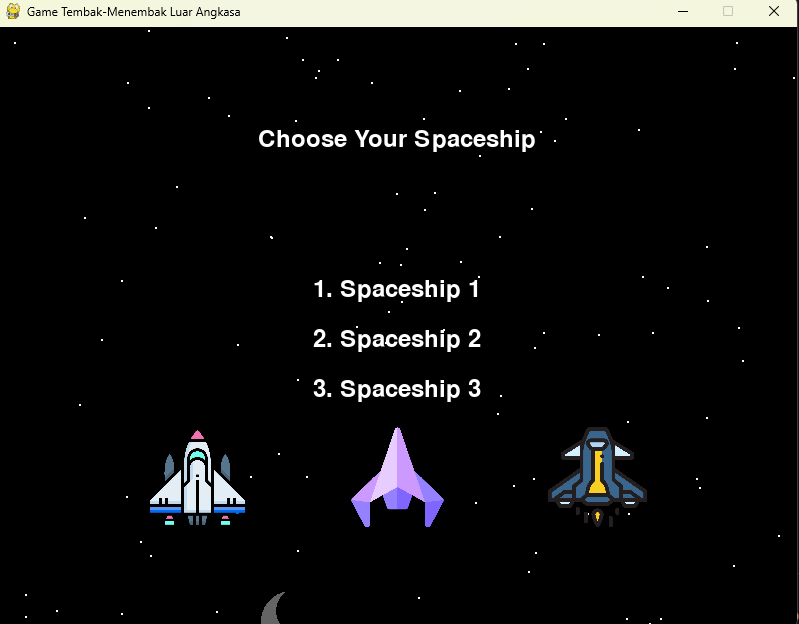
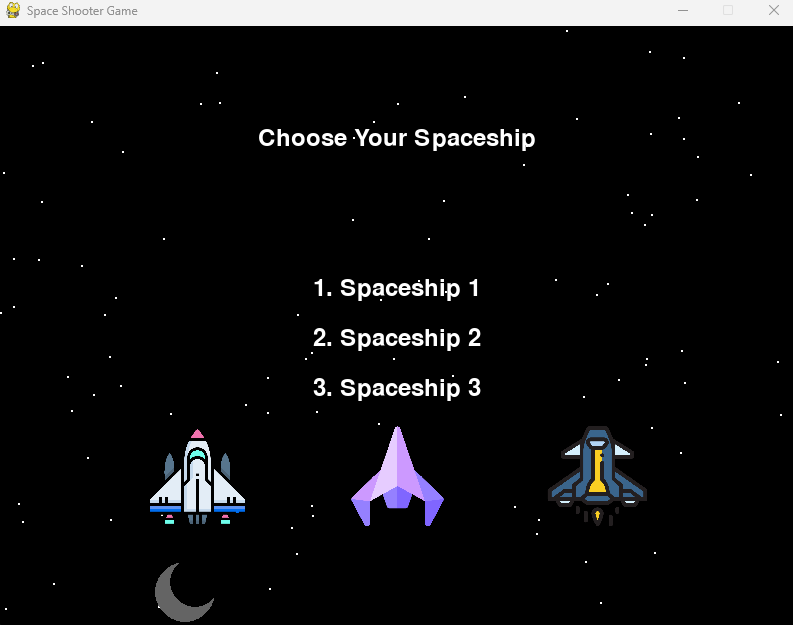
update

diff --git a/space-shooter.py b/space-shooter.py
@@ -3,10 +3,8 @@ import random
 import sys
 import math
 
-# Inisialisasi pygame
 pygame.init()
 
-# Warna
 black = (0, 0, 0)
 white = (255, 255, 255)
 blue = (0, 0, 255)
@@ -15,33 +13,28 @@ green = (0, 255, 0)
 yellow = (255, 255, 0)
 gray = (100, 100, 100)
 
-# Ukuran jendela
 width, height = 800, 600
 screen = pygame.display.set_mode((width, height))
-pygame.display.set_caption('Game Tembak-Menembak Luar Angkasa')
+pygame.display.set_caption('Space Shooter Game')
 
-# Variabel game
 clock = pygame.time.Clock()
 fps = 60
 player_speed = 5
 bullet_speed = 7
 enemy_speed = 3
-bullet_delay = 300  # waktu delay dalam milidetik antara tembakan
-max_combo = 32  # Maksimum combo
+bullet_delay = 300
+max_combo = 32
 
-# Font untuk skor
 font = pygame.font.Font(None, 36)
 
-# Dekorasi luar angkasa
 stars = [(random.randint(0, width), random.randint(0, height)) for _ in range(100)]
 moon_x, moon_y = random.randint(50, width-50), random.randint(-50, 0)
 
-# Kelas
 class Player(pygame.sprite.Sprite):
     def __init__(self, spaceship_choice):
         super().__init__()
-        self.image = pygame.image.load(spaceship_choice).convert_alpha()  # Load gambar pesawat dengan alpha channel
-        self.image = pygame.transform.scale(self.image, (50, 50))  # Sesuaikan ukuran
+        self.image = pygame.image.load(spaceship_choice).convert_alpha()
+        self.image = pygame.transform.scale(self.image, (50, 50))
         self.rect = self.image.get_rect()
         self.rect.center = (width // 2, height - 50)
         self.speed = player_speed
@@ -63,8 +56,8 @@ class Player(pygame.sprite.Sprite):
 class Bullet(pygame.sprite.Sprite):
     def __init__(self, x, y):
         super().__init__()
-        self.image = pygame.image.load('bullet.png').convert_alpha()  # Load gambar peluru dengan alpha channel
-        self.image = pygame.transform.scale(self.image, (5, 15))  # Sesuaikan ukuran
+        self.image = pygame.image.load('bullet.png').convert_alpha()
+        self.image = pygame.transform.scale(self.image, (5, 15))
         self.rect = self.image.get_rect()
         self.rect.centerx = x
         self.rect.bottom = y
@@ -77,8 +70,8 @@ class Bullet(pygame.sprite.Sprite):
 class Enemy(pygame.sprite.Sprite):
     def __init__(self):
         super().__init__()
-        self.image = pygame.image.load('enemy.png').convert_alpha()  # Load gambar musuh dengan alpha channel
-        self.image = pygame.transform.scale(self.image, (40, 40))  # Sesuaikan ukuran
+        self.image = pygame.image.load('enemy.png').convert_alpha()
+        self.image = pygame.transform.scale(self.image, (40, 40))
         self.rect = self.image.get_rect()
         self.rect.x = random.randint(0, width - self.rect.width)
         self.rect.y = random.randint(-150, -self.rect.height)
@@ -108,8 +101,8 @@ class Alien(pygame.sprite.Sprite):
 class Combo(pygame.sprite.Sprite):
     def __init__(self):
         super().__init__()
-        self.image = pygame.image.load('coin.png').convert_alpha()  # Load gambar koin dengan alpha channel
-        self.image = pygame.transform.scale(self.image, (30, 30))  # Sesuaikan ukuran
+        self.image = pygame.image.load('coin.png').convert_alpha()
+        self.image = pygame.transform.scale(self.image, (30, 30))
         self.rect = self.image.get_rect()
         self.rect.x = random.randint(0, width - self.rect.width)
         self.rect.y = random.randint(-150, -self.rect.height)
@@ -121,12 +114,10 @@ class Combo(pygame.sprite.Sprite):
             self.kill()
 
 def draw_space_decorations(player):
-    # Draw stars
     for i, star in enumerate(stars):
         stars[i] = (star[0], (star[1] + 1) % height)
         pygame.draw.circle(screen, white, stars[i], 1)
     
-    # Draw moon
     global moon_x, moon_y
     moon_y = (moon_y + 0.5) % height
     pygame.draw.circle(screen, gray, (int(moon_x), int(moon_y)), 30)
@@ -232,10 +223,8 @@ def main():
                             all_sprites.add(bullet)
                             bullets.add(bullet)
 
-        # Update
         all_sprites.update()
 
-        # Check for collisions
         for bullet in bullets:
             hit_enemies = pygame.sprite.spritecollide(bullet, enemies, True)
             for enemy in hit_enemies:
@@ -253,7 +242,6 @@ def main():
         hit_player = pygame.sprite.spritecollideany(player, enemies)
         if hit_player:
             if show_game_over_screen(score):
-                # Restart the game
                 spaceship_choice = choose_spaceship()
                 if spaceship_choice is None:
                     running = False
@@ -273,38 +261,32 @@ def main():
                 running = False
             continue
 
-        # Check for combo collisions
         hit_combo = pygame.sprite.spritecollideany(player, combos)
         if hit_combo:
             hit_combo.kill()
             combo_multiplier = min(combo_multiplier * 2, max_combo)
 
-        # Add new enemies
         if random.random() < 0.02:
             enemy = Enemy()
             all_sprites.add(enemy)
             enemies.add(enemy)
 
-        # Add new aliens every 30 seconds
         current_time = pygame.time.get_ticks()
-        if current_time - last_alien_spawn_time > 30000:  # 30 seconds
+        if current_time - last_alien_spawn_time > 30000:
             last_alien_spawn_time = current_time
             alien = Alien()
             all_sprites.add(alien)
             aliens.add(alien)
 
-        # Add new combos
         if random.random() < 0.005:
             combo = Combo()
             all_sprites.add(combo)
             combos.add(combo)
 
-        # Draw
         screen.fill(black)
         draw_space_decorations(player)
         all_sprites.draw(screen)
 
-        # Draw score and combo multiplier
         score_text = font.render(f"Score: {score}", True, white)
         combo_text = font.render(f"Combo: x{combo_multiplier}", True, yellow)
         screen.blit(score_text, (10, 10))
@@ -312,7 +294,6 @@ def main():
 
         pygame.display.flip()
 
-        # Cap the frame rate
         clock.tick(fps)
 
     pygame.quit()
